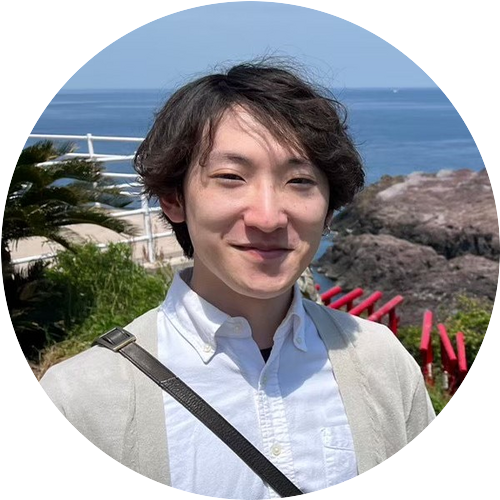
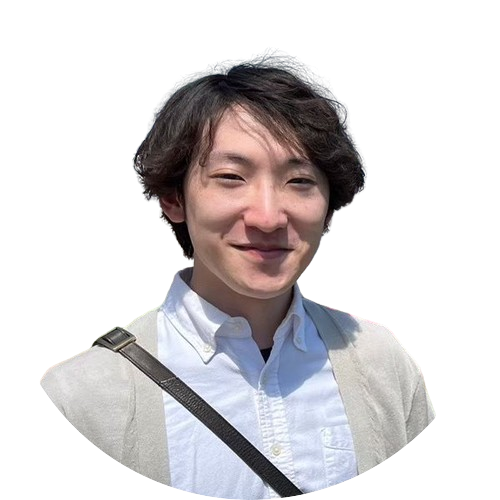
refactor: Improve Photo component performance and layout

diff --git a/components/Photo.tsx b/components/Photo.tsx
@@ -19,7 +19,7 @@ const Photo = () => {
                         opacity: 1,
                         transition: { delay: 2.4, duration: 0.4, ease: "easeInOut" }
                     }}
-                    className="w-[298px] h-[298px] xl:w-[498px] xl:h-[498px] mix-blend-lighten"
+                    className="w-[298px] h-[298px] xl:w-[498px] xl:h-[498px] mix-blend-lighten absolute top-[4px] left-[4px]"
                 >
                     <Image
                         src="/assets/photo.png"
@@ -31,8 +31,8 @@ const Photo = () => {
                     />
                 </motion.div>
                 {/* circle */}
-                {/* <motion.svg
-                    className="w-[300px] xl:w-[506px] h-[300px] xl:h-[506px]"
+                <motion.svg
+                    className="w-[306px] xl:w-[506px] h-[306px] xl:h-[506px]"
                     fill="transparent"
                     viewBox="0 0 506 506"
                     xmlns="http://www.w3.org/2000/svg"
@@ -56,7 +56,7 @@ const Photo = () => {
                             repeatType: "reverse"
                         }}
                     />
-                </motion.svg> */}
+                </motion.svg>
             </motion.div>
         </div>
     );
